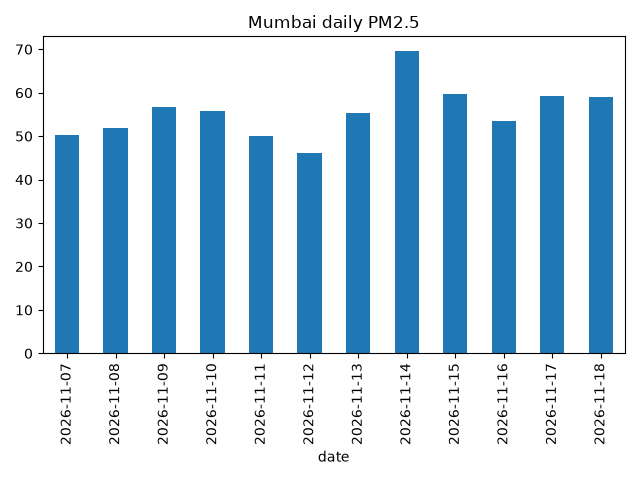
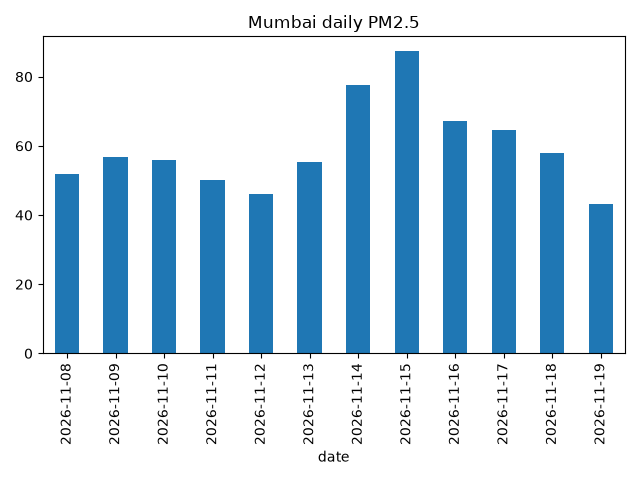
Daily update

diff --git a/report.md b/report.md
@@ -1,14 +1,13 @@
-# Mumbai Air Quality Report (2026-11-14)
+# Mumbai Air Quality Report (2026-11-15)
 
-*Note: Data from 2026-11-15 to 2026-11-18 are forecast values; readings from 2026-11-07 to 2026-11-14 are actual recorded data.*
+*(Note: Data for dates after today, 2026-11-16 through 2026-11-19, are forecasted values rather than actual readings.)*
 
 **1) Most Polluted Day**
-* **2026-11-14 (Today)** is the most polluted day in the dataset, peaking at **69.5 µg/m³ PM2.5** and **75.0 µg/m³ PM10**.
+* **2026-11-15 (Today):** Recorded the highest levels in the dataset, peaking at **87.3 µg/m³ (PM2.5)** and **97.8 µg/m³ (PM10)**.
 
 **2) Trend**
-* **Actuals (Nov 7–14):** PM2.5 and PM10 levels fluctuated initially, dropping to a week-low on Nov 12 (46.2 PM2.5 / 50.9 PM10) before rising sharply to reach the period's peak today (Nov 14).
-* **Forecast (Nov 15–18):** Pollution is projected to decrease slightly from today's peak but remain moderately elevated, hovering between 53.4–59.8 µg/m³ for PM2.5 and 61.1–66.9 µg/m³ for PM10.
+Actual readings remained stable (Nov 8–13) before spiking sharply on Nov 14 and reaching a peak today (Nov 15). The forecast indicates a steady decline over the next four days (Nov 16–19), dropping to the lowest recorded level of 43.1 µg/m³ (PM2.5) by Nov 19.
 
 **3) Recommendation**
-Limit outdoor activities today (Nov 14) to minimize exposure during the highest recorded PM2.5 and PM10 peak.
-Schedule necessary outdoor tasks for days with lower projected PM concentrations based on upcoming daily forecasts.
+Limit outdoor activities today (Nov 15) and tomorrow while pollutant concentrations remain elevated.
+Schedule strenuous outdoor tasks for Nov 18–19 when air quality is forecasted to improve significantly.
